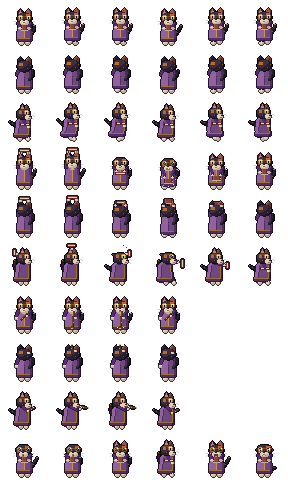
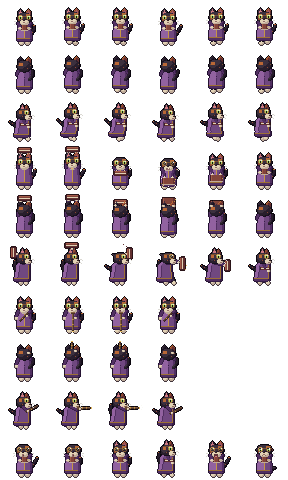
Update Fuji character attributes and refine sprite dimensions

diff --git a/assets/_gen_fuji_sprites.py b/assets/_gen_fuji_sprites.py
@@ -16,10 +16,11 @@ entities/fuji/fuji_frames.tres (region contract):
   row9 hurt(2) + idle_down blink + idle_side tail-flick + happy + sad
 
 Art contracts consumed by code: feet baseline y=44 (_core.ZONE_FEET); origin
-(24,24); in the leveled dart frames the pipe TIP sits exactly 16px from the
-cell center along the facing (fuji.gd muzzle_offset spawns the dart there);
-the book impact frame plants the tome over the same 16px reach (fuji.gd's
-BookHitbox center); idle_down/idle_side alternate walk f0 with the
+(24,24); in the leveled dart frames the pipe TIP sits exactly 19px from the
+cell center along the facing (fuji.gd muzzle_offset spawns the dart there —
+LONGER than Basil's 16px gun contract, the reed pipe reads as a full staff);
+the book impact frame plants the tome over the 12px BookHitbox reach (fuji.gd
+book_reach); idle_down/idle_side alternate walk f0 with the
 blink/tail-flick cells, so walk f0 is a planted neutral pose the extras
 redraw exactly.
 
@@ -519,26 +520,32 @@ def cat_side(s, bobY=0, fA=(0, 0), fB=(0, 0), tail_dy=0, tail_raised=False,
 
 def _book_edge(s, x0, y, x1):
     """Edge-on tome, horizontal: leather boards sandwiching the cream page
-    stripe, dark caps at both ends."""
+    stripe (2px boards each side — the BIG 2026-07 tome), dark underside,
+    dark caps at both ends."""
     for x in range(x0, x1 + 1):
+        s.set(x, y - 2, BOOK[0])
         s.set(x, y - 1, BOOK[1])
         s.set(x, y, CREAM[1])
         s.set(x, y + 1, BOOK[2])
-    s.rect(x0, y - 1, x0, y + 1, BOOK[3])
-    s.rect(x1, y - 1, x1, y + 1, BOOK[3])
+        s.set(x, y + 2, BOOK[3])
+    s.rect(x0, y - 2, x0, y + 2, BOOK[3])
+    s.rect(x1, y - 2, x1, y + 2, BOOK[3])
 
 
 def _book_vert(s, x, y0, y1):
-    """Edge-on tome, vertical (side-view arc frames)."""
+    """Edge-on tome, vertical (side-view arc frames): lit board 2px on the
+    screen-left, 2px shade board right."""
     for y in range(y0, y1 + 1):
+        s.set(x - 2, y, BOOK[0])
         s.set(x - 1, y, BOOK[1])
         s.set(x, y, CREAM[1])
         s.set(x + 1, y, BOOK[2])
-    s.rect(x - 1, y0, x + 1, y0, BOOK[3])
-    s.rect(x - 1, y1, x + 1, y1, BOOK[3])
+        s.set(x + 2, y, BOOK[2])
+    s.rect(x - 2, y0, x + 2, y0, BOOK[3])
+    s.rect(x - 2, y1, x + 2, y1, BOOK[3])
 
 
-def _book_flat(s, cx, cy, w=4, h=2):
+def _book_flat(s, cx, cy, w=6, h=3):
     """Cover-up tome (the slam): flat leather fields, one hard shade band,
     spine left, brass clasp, page block along the bottom."""
     x0, x1 = cx - w, cx + w
@@ -566,7 +573,7 @@ def _impact_fx(s, pts):
 
 def book_down(s, phase):
     """Row-3 tome swing, facing camera: a two-paw overhead slam. The impact
-    frame plants the tome over the 16px melee reach in front of her."""
+    frame plants the tome over the 12px BookHitbox reach in front of her."""
     p = RIG.pose()
     tail = (1, 2, 0, -1, 0, 0)[phase]
     spread = 1 if phase == 3 else 0
@@ -580,7 +587,7 @@ def book_down(s, phase):
         s.ball(20, by + 2.5, 1.5, 1.3, CREAM, wrap=0.10)
         s.ball(28, by + 2.5, 1.5, 1.3, CREAM, wrap=0.10)
         head_down(s, 0, -1 if phase == 1 else 0, "open", "up")
-        _book_edge(s, 19, by, 29)
+        _book_edge(s, 18, by, 30)
         finish(s)
         whiskers_down(s, 0, -1 if phase == 1 else 0)
     elif phase == 2:                               # strike: tome falls past her chest
@@ -589,7 +596,7 @@ def book_down(s, phase):
         head_down(s, 0, 1, "open", "flat")
         s.ball(20, 27, 1.5, 1.3, CREAM, wrap=0.10)
         s.ball(28, 27, 1.5, 1.3, CREAM, wrap=0.10)
-        _book_edge(s, 19, 29, 29)                  # in FRONT of the torso
+        _book_edge(s, 18, 29, 30)                  # in FRONT of the torso
         finish(s)
         whiskers_down(s, 0, 1)
         for (x, y) in ((23, 18), (25, 22), (24, 14)):   # arc smear
@@ -603,12 +610,12 @@ def book_down(s, phase):
         _book_flat(s, 24, 37)
         finish(s)
         whiskers_down(s, 0, 2)
-        _impact_fx(s, ((17, 34), (31, 35), (24, 42), (19, 41), (29, 40)))
+        _impact_fx(s, ((17, 34), (31, 35), (24, 42), (19, 41), (31, 41)))
     elif phase == 4:                               # follow: tome easing up
         s.capsule(18, 23, 20, 29, 1.8, 1.5, ROBE, sh=0.18)
         s.capsule(30, 23, 28, 29, 1.8, 1.5, ROBE, sh=0.30)
-        s.ball(20, 31, 1.5, 1.3, CREAM, wrap=0.10)
-        s.ball(28, 31, 1.5, 1.3, CREAM, wrap=0.10)
+        s.ball(20, 30, 1.5, 1.3, CREAM, wrap=0.10)
+        s.ball(28, 30, 1.5, 1.3, CREAM, wrap=0.10)
         head_down(s, 0, 1, "open", "up")
         _book_flat(s, 24, 34)
         finish(s)
@@ -637,10 +644,10 @@ def book_up(s, phase):
         head_up(s)
         s.ball(20, by + 2.5, 1.5, 1.3, CREAM, wrap=0.10)
         s.ball(28, by + 2.5, 1.5, 1.3, CREAM, wrap=0.10)
-        _book_edge(s, 19, by, 29)
+        _book_edge(s, 18, by, 30)
         tail_up(s, 1)
     elif phase == 2:                               # strike: pitching forward/away
-        _book_edge(s, 19, 10, 29)
+        _book_edge(s, 18, 10, 30)
         s.capsule(18, 23, 19, 14, 1.8, 1.5, ROBE, sh=0.18)
         s.capsule(30, 23, 29, 14, 1.8, 1.5, ROBE, sh=0.30)
         head_up(s, 1)
@@ -665,7 +672,8 @@ def book_up(s, phase):
 
 def book_side(s, phase):
     """Row-5 tome swing, facing RIGHT: over-the-shoulder arc into a forward
-    plant. The impact frame covers the 16px reach (tome at x37-39)."""
+    plant. The impact frame covers the 12px BookHitbox reach (tome at
+    x36-40)."""
     p = RIG_S.pose()
     fA, fB = (0, 0), (0, 0)
     if phase == 3:
@@ -689,34 +697,34 @@ def book_side(s, phase):
         s.capsule(23, 23, 17, 15, 1.7, 1.5, ROBE, sh=0.24)
         s.ball(16.5, 13.5, 1.5, 1.3, CREAM, wrap=0.10)
         head_side(s, 0, 0, "open", "up")
-        _book_vert(s, 14, 9, 15)
+        _book_vert(s, 13, 7, 17)
     elif phase == 1:                               # peak: tome overhead
         s.capsule(23, 23, 23, 11, 1.7, 1.5, ROBE, sh=0.24)
         head_side(s, 0, 0, "open", "up")
         s.ball(23.5, 8.3, 1.5, 1.3, CREAM, wrap=0.10)   # grip between the ears
-        _book_edge(s, 19, 5, 27)
+        _book_edge(s, 17, 5, 29)
     elif phase == 2:                               # strike: mid-arc in front
         s.capsule(23, 23, 29, 15, 1.7, 1.5, ROBE, sh=0.24)
         s.ball(30, 13.5, 1.5, 1.3, CREAM, wrap=0.10)
         head_side(s, 1, 0, "open", "back")
-        _book_vert(s, 33, 10, 16)
+        _book_vert(s, 33, 8, 18)
     elif phase == 3:                               # IMPACT: planted forward
         s.capsule(23, 23, 33, 21, 1.7, 1.5, ROBE, sh=0.24)
         s.ball(34, 22, 1.5, 1.3, CREAM, wrap=0.10)
         head_side(s, 1, 0, "wince", "back")
-        _book_vert(s, 38, 19, 27)
+        _book_vert(s, 38, 17, 29)
     elif phase == 4:                               # follow: easing back
         s.capsule(23, 23, 31, 24, 1.7, 1.5, ROBE, sh=0.24)
         s.ball(32, 25, 1.5, 1.3, CREAM, wrap=0.10)
         head_side(s, 0, 0, "open", "up")
-        _book_vert(s, 35, 22, 28)
+        _book_vert(s, 35, 20, 30)
     else:                                          # recover = walk_side f0 carry
         book_carry_side(s)
         head_side(s)
     finish(s)
     whiskers_side(s, 1 if phase in (2, 3) else 0, 0)
     if phase == 2:
-        for (x, y) in ((27, 5), (30, 7), (32, 9)):     # arc smear
+        for (x, y) in ((27, 4), (30, 6), (32, 8)):     # arc smear
             s.set(x, y, BOOK[2])
     elif phase == 3:
         _impact_fx(s, ((41, 17), (42, 25), (36, 16), (41, 29)))
@@ -726,7 +734,7 @@ def book_side(s, phase):
 
 def dart_down(s, mode):
     """Row-6 blow-pipe, facing camera: pipe to her lips pointing SOUTH. In the
-    leveled frames the tip fills (24, 40) — cell center + muzzle_offset(16)."""
+    leveled frames the tip fills (24, 43) — cell center + muzzle_offset(19)."""
     p = RIG.pose()
     tail_down(s, p, 1 if mode == "puff" else 0)
     legs_down(s, p)
@@ -737,34 +745,45 @@ def dart_down(s, mode):
     if mode in ("raise", "settle"):                # pipe diagonal at the chest
         head_down(s, 0, 0, "open", "up")
         s.capsule(30, 23, 27.5, 26.5, 1.8, 1.5, ROBE, sh=0.30)
-        s.capsule(21, 31, 26, 26, 1.1, 1.0, PIPE, sh=0.08)
+        s.capsule(20, 32, 27, 25, 1.1, 1.0, PIPE, sh=0.08)
         s.set(22, 30, TRIM[1])                     # brass band
         s.ball(26.5, 27.5, 1.5, 1.3, CREAM, wrap=0.10)
     else:                                          # aim / puff: pipe level, south
         head_down(s, 0, 0, "open", "up", puff=(mode == "puff"))
         s.capsule(30, 23, 27.5, 28, 1.8, 1.5, ROBE, sh=0.30)
-        # a 1px drift off the trim placket so pipe and placket stay two lines
-        s.capsule(25.5, 24, 24, 38, 1.2, 1.0, PIPE, sh=0.06)
-        s.set(25, 34, TRIM[1])                     # brass band
+        # the blowgun reads as a TUBE, not a stick: flared mouthpiece cup at
+        # her lips, a dead-straight 2px reed bore (lit left / shaded right,
+        # covering the trim placket — it's in front), twin brass cane wraps
+        s.rect(23, 24, 26, 24, PIPE[0])            # mouthpiece cup, flared
+        s.rect(23, 25, 26, 25, PIPE[2])
+        s.rect(24, 26, 24, 41, PIPE[0])            # bore, lit side
+        s.rect(25, 26, 25, 41, PIPE[2])            # bore, shade side
+        for by in (31, 36):                        # cane wraps
+            s.set(24, by, TRIM[1])
+            s.set(25, by, TRIM[2])
         s.ball(27, 29.5, 1.5, 1.3, CREAM, wrap=0.10)     # paw steadying the pipe
     finish(s)
     whiskers_down(s)
     if mode in ("aim", "puff"):
-        s.set(24, 39, PIPE[1])                     # tip past the outline
-        s.set(24, 40, DARTF)                       # tip kisses y=40 (contract)
-        s.set(23, 40, DARTF)
+        s.set(24, 42, PIPE[3])                     # square-cut muzzle, open bore
+        s.set(25, 42, PIPE[3])
+        s.set(24, 43, DARTF)                       # dart in the bore — tip kisses
+        s.set(25, 43, DARTF)                       # y=43 (contract)
     if mode == "puff":
-        for (x, y) in ((21, 39), (27, 39), (24, 43)):
-            s.set(x, y, PUFFC)                     # blown-air wisps
+        for (x, y) in ((18, 42), (30, 42), (24, 46)):
+            s.set(x, y, PUFFC)                     # blown-air wisps skirt the paws
 
 
 def dart_up(s, mode):
     """Row-7 blow-pipe, facing away: the pipe rises past her head on the far
-    side (drawn first). Leveled tip fills (23..24, 8)."""
+    side (drawn first). Leveled tip fills (23..24, 5)."""
     p = RIG.pose()
     if mode in ("aim", "puff"):                    # pipe beyond the head
-        s.capsule(23.5, 19, 23.5, 10, 1.1, 1.0, PIPE, sh=0.10)
-        s.set(23, 12, TRIM[1])
+        s.rect(23, 7, 23, 19, PIPE[0])             # straight 2px reed bore
+        s.rect(24, 7, 24, 19, PIPE[2])
+        for by in (9, 12):                         # cane wraps (skull hides below)
+            s.set(23, by, TRIM[1])
+            s.set(24, by, TRIM[2])
     legs_down(s, p)
     robe_down(s, back=True)
     # off arm hangs; pipe arm reaches up beside the head
@@ -782,17 +801,18 @@ def dart_up(s, mode):
         s.ball(27, 14.5, 1.5, 1.3, CREAM, wrap=0.10)
     finish(s)
     if mode in ("aim", "puff"):
-        s.set(23, 9, PIPE[1])                      # tip past the outline
-        s.set(23, 8, DARTF)                        # tip kisses y=8 (contract)
-        s.set(24, 8, DARTF)
+        s.set(23, 6, PIPE[3])                      # square-cut muzzle, open bore
+        s.set(24, 6, PIPE[3])
+        s.set(23, 5, DARTF)                        # dart in the bore — tip kisses
+        s.set(24, 5, DARTF)                        # y=5 (contract)
     if mode == "puff":
-        for (x, y) in ((21, 9), (27, 9), (24, 5)):
+        for (x, y) in ((21, 6), (27, 6), (24, 2)):
             s.set(x, y, PUFFC)
 
 
 def dart_side(s, mode):
     """Row-8 blow-pipe, facing RIGHT: pipe level from her lips going EAST,
-    cheeks puffed on the shot. Leveled tip fills (40, 23..24)."""
+    cheeks puffed on the shot. Leveled tip fills (43, 23..24)."""
     p = RIG_S.pose()
     tail_side(s, p, 0, raised=(mode == "puff"))
     for (hip, foot, sh) in (("hipB", "footB", 0.16), ("hipF", "footF", 0.0)):
@@ -806,23 +826,32 @@ def dart_side(s, mode):
         head_side(s, 0, 0, "open", "up")
         s.capsule(23, 23, 26, 26, 1.7, 1.5, ROBE, sh=0.24)
         dy = 2 if mode == "settle" else 0
-        s.capsule(26, 27 + dy, 34, 23 + dy, 1.1, 1.0, PIPE, sh=0.08)
+        s.capsule(26, 27 + dy, 37, 21.5 + dy, 1.1, 1.0, PIPE, sh=0.08)
         s.set(31, 25 + dy, TRIM[1])
         s.ball(27.5, 26.5 + dy, 1.5, 1.3, CREAM, wrap=0.10)
     else:                                          # aim / puff: level at the lips
         head_side(s, 0, 0, "open", "up", puff=(mode == "puff"))
         s.capsule(23, 23, 28, 25.5, 1.7, 1.5, ROBE, sh=0.24)
-        s.capsule(30, 22.5, 38, 23.2, 1.2, 1.0, PIPE, sh=0.06)
-        s.set(35, 23, TRIM[1])                     # brass band
-        s.ball(31.5, 24.5, 1.5, 1.3, CREAM, wrap=0.10)   # paw under the pipe
+        # the blowgun as a TUBE: flared mouthpiece cup against her lips, a
+        # dead-straight 2px bore (lit top / shaded belly), twin brass wraps
+        s.rect(29, 22, 30, 22, PIPE[0])            # mouthpiece cup, flared
+        s.rect(29, 23, 30, 24, PIPE[1])
+        s.rect(29, 25, 30, 25, PIPE[2])
+        s.rect(31, 23, 41, 23, PIPE[0])            # bore, lit top
+        s.rect(31, 24, 41, 24, PIPE[2])            # bore, shaded belly
+        for bx in (34, 38):                        # cane wraps
+            s.set(bx, 23, TRIM[1])
+            s.set(bx, 24, TRIM[2])
+        s.ball(31.5, 24.5, 1.5, 1.3, CREAM, wrap=0.10)   # paw cupping the bore
     finish(s)
     whiskers_side(s)
     if mode in ("aim", "puff"):
-        s.set(39, 23, PIPE[1])                     # tip past the outline
-        s.set(40, 23, DARTF)                       # tip kisses x=40 (contract)
-        s.set(40, 24, DARTF)
+        s.set(42, 23, PIPE[3])                     # square-cut muzzle, open bore
+        s.set(42, 24, PIPE[3])
+        s.set(43, 23, DARTF)                       # dart in the bore — tip kisses
+        s.set(43, 24, DARTF)                       # x=43 (contract)
     if mode == "puff":
-        for (x, y) in ((42, 21), (43, 23), (42, 25)):
+        for (x, y) in ((45, 21), (46, 23), (45, 25)):
             s.set(x, y, PUFFC)
 
 

diff --git a/docs/DESIGN.md b/docs/DESIGN.md
@@ -653,7 +653,9 @@ deliberate.
    Walk Down/Up/Side (6 each) · Book Down/Up/Side (6 each: windup, peak, strike,
    IMPACT held, follow, recover-redraws-walk-f0) · Dart Down/Up/Side (4 each:
    raise, aim, PUFF, settle; cols 4-5 empty) · Hurt (2) + blink + tail-flick +
-   happy + sad. Same figure/feet/16px-tip contracts as Basil. Tortoiseshell —
+   happy + sad. Same figure/feet contracts as Basil, but her blow-pipe TIP
+   sits at **19px** from cell center (`fuji.gd muzzle_offset` — the reed runs
+   longer than Basil's 16px gun muzzle). Tortoiseshell —
    split ears (left black / right ginger), placed rust patches (never dithered),
    cream muzzle/chest/paws, green-gold eyes in round brass reading glasses, plum
    scholar's robe (mustard trim placket + hem stripe, hood on the back view),

diff --git a/CLAUDE.md b/CLAUDE.md
@@ -92,7 +92,8 @@ tome hugged to her chest in the walk; walk/hop (Basil's air-steerable dodge) /
 **tome swing** (attack — overhead slam, BookHitbox shape-toggled through the
 strike/impact window, damage 2, forward lunge) / **blow-pipe darts** (`dart`
 action, L — unlimited `blow_dart` projectiles, damage 1, leaves on the puff
-frame at the 16px pipe-tip contract). Basil's kit (instant-fire laser, recoil
+frame at the 19px pipe-tip contract — Fuji's reed runs longer than Basil's
+16px gun muzzle). Basil's kit (instant-fire laser, recoil
 skid, beaker mags) lives on in player.gd/tscn; slimes explode in 2 book
 swings or 2 laser shots and a replacement respawns elsewhere in the meadow.
 GOTCHA fixed 2026-07-07: hand-authored .tscn node exports NEED